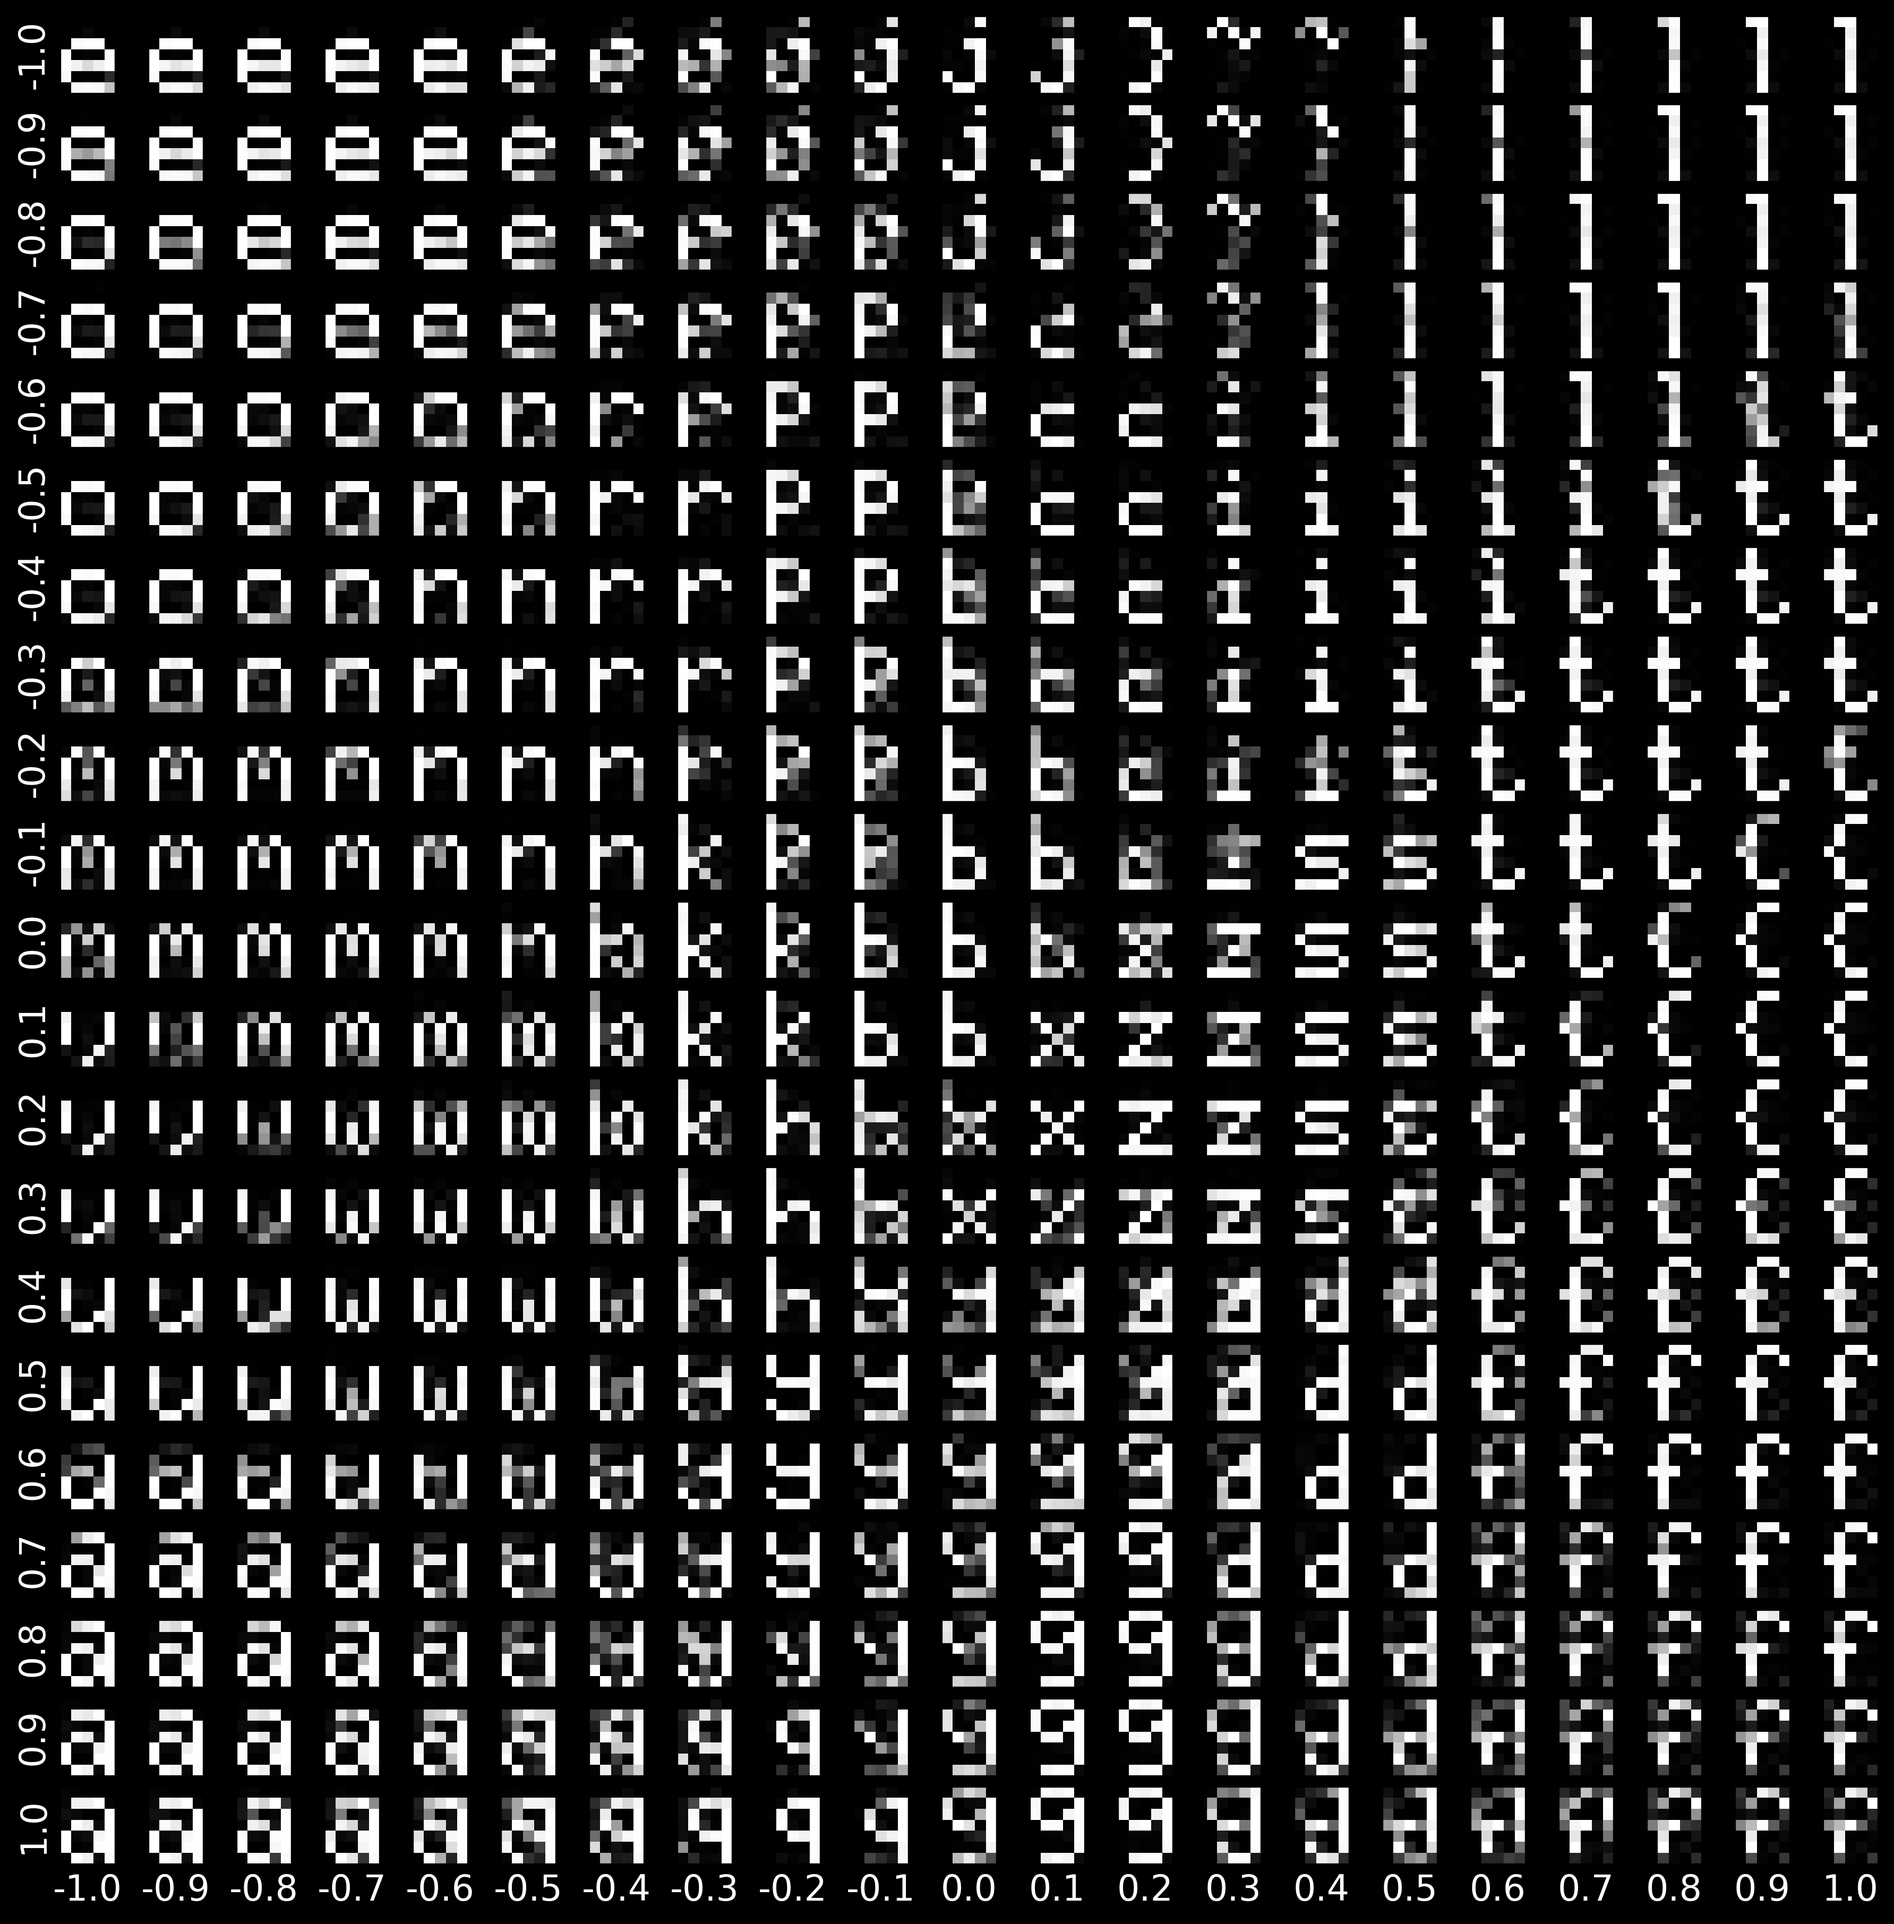
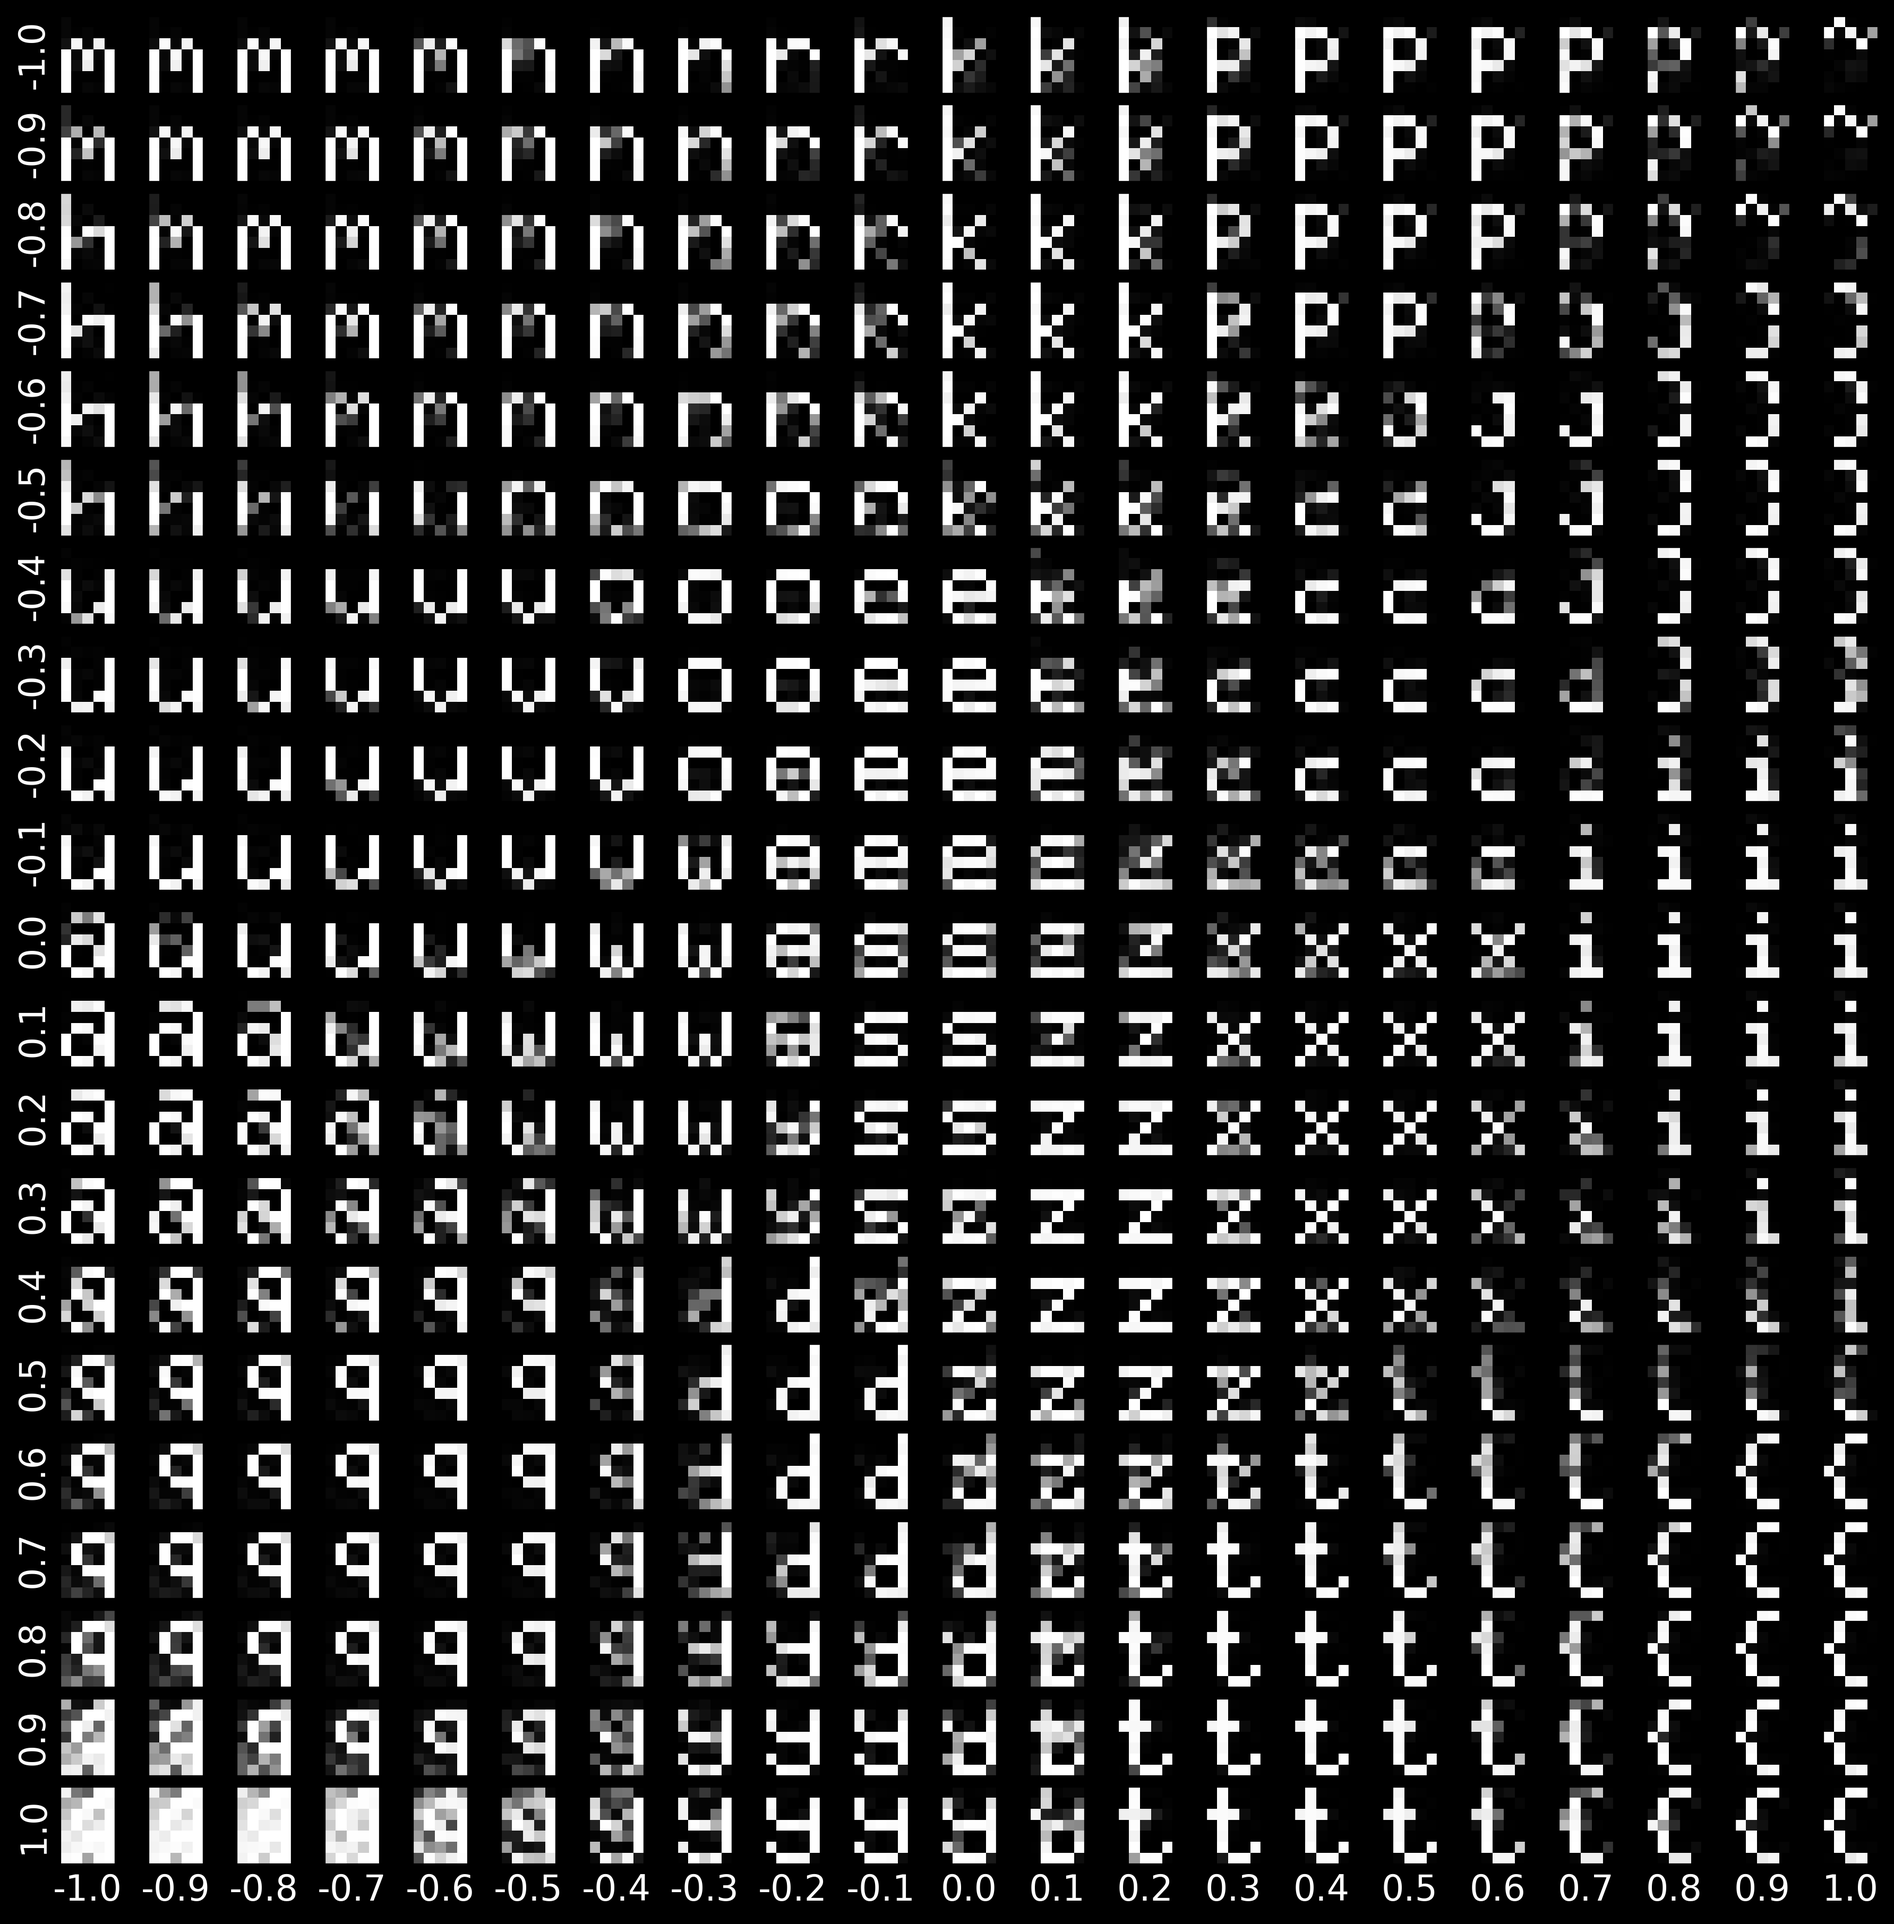
Push changes

Changed region(s): [[0.0311, 0.0, 0.9958, 0.9666]]

diff --git a/exercise1_discriminative/task2_denoising/pose_example.py b/exercise1_discriminative/task2_denoising/pose_example.py
@@ -1,0 +1,55 @@
+import os
+import sys
+
+import numpy as np
+
+# Add the path to the folder containing exercise1_discriminative/task2_denoising/runner_main.py
+sys.path.append(os.path.abspath('.'))
+
+from exercise1_discriminative.task2_denoising.runner_main import apply_noise_to_bitmaps
+
+# Add the path to the folder containing MLPLinearAutoencoderOfAdam.py
+sys.path.append(os.path.abspath('.'))
+
+# Now you can import MLPLinearAutoencoderOfAdam
+from MLPLinearAutoencoderOfAdam import MLPLinearAutoencoderOfAdam
+from assets.fonts import font3_labels
+from utils.character_font import binary_arrays_from_font3
+
+# Example solution
+if __name__ == '__main__':
+    # Get the characters from our font
+    characters = binary_arrays_from_font3()
+    # characters[characters == 0] = -1
+
+    # Create a deep autoencoder with a mirrored architecture
+    autoencoder = MLPLinearAutoencoderOfAdam(encoder_layers=[35, 50, 70, 30, 12, 5, 2], learning_rate=0.0001)
+
+    # Train the autoencoder
+    trained_weights, trained_biases, min_error, epochs, _, _, _ = autoencoder.train(np.concatenate(
+        [apply_noise_to_bitmaps(characters, 0.1) for _ in range(4)]), np.tile(characters, reps=(4, 1)),
+                                                                                                epoch_limit=1000,
+                                                                                                error_limit=0)
+    print("Trained weights:", trained_weights)
+    print("Trained biases:", trained_biases)
+    print("Minimum error:", np.sum(np.abs(np.rint(autoencoder.reconstruct(characters)) - characters)))
+    print("Epochs used:", epochs)
+
+    # Test encoding and reconstruction
+    latent_representation = autoencoder.encode(characters)
+    reconstruction = autoencoder.reconstruct(characters)
+    print("Latent representation:", latent_representation)
+    print("Reconstruction:", np.resize(np.rint(reconstruction[31]), new_shape=(7, 5)))
+
+    # Plot the latent space
+    autoencoder.plot_latent_space(apply_noise_to_bitmaps(characters, 0.1), font3_labels)
+    # labels = [None] * len(characters)
+    # for i in range(len(characters)):
+    #     labels[i] = font3_labels[i] + str(autoencoder.compute_error(characters[i]))
+    # autoencoder.plot_latent_space(characters, labels)
+
+    # Plot the reconstructions
+    autoencoder.plot_reconstructions(apply_noise_to_bitmaps(characters, 0.1))
+
+    # Plot the latent grid
+    autoencoder.plot_latent_grid()
